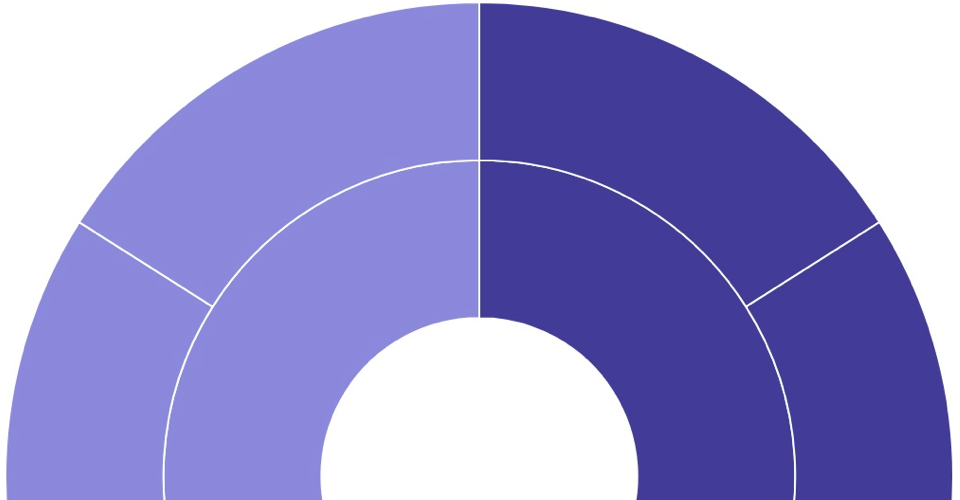
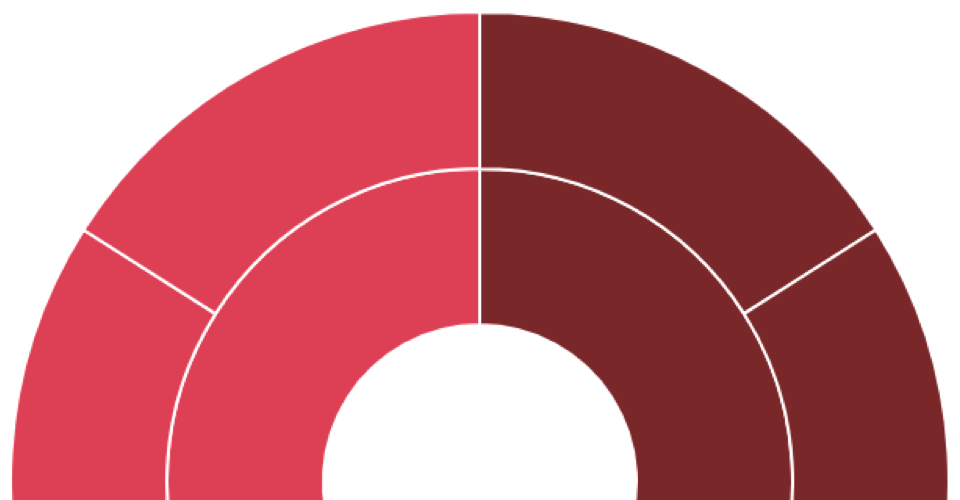
red sunbursts and typos

diff --git a/d3/sunburst-2.html b/d3/sunburst-2.html
@@ -1,7 +1,7 @@
 <!DOCTYPE html>
 <head>
     <title>Sunburst Tutorial (d3 v4), Part 2</title>
-    <script src='../plugins/d3/d3.v4.min.js'></script>
+    <script src='../plugins/d3/d3.v4.js'></script>
     <!-- Want to run locally? Update src: 'https://d3js.org/d3.v4.min.js' -->
 </head>
 <body>
@@ -12,7 +12,7 @@
     var vWidth = 300;
     var vHeight = 300;
     var vRadius = Math.min(vWidth, vHeight) / 2;
-    var vColor = d3.scaleOrdinal(d3.schemeCategory20b);
+    var vColor = d3.scaleOrdinal(d3.schemeCategory20b.slice(11));
 
     // Prepare our physical space
     var g = d3.select('svg')
@@ -52,6 +52,8 @@
             .attr('d', vArc)
             .style('stroke', '#fff')
             .style('fill', function (d) {
-                return vColor((d.children ? d : d.parent).data.id); });
+                return vColor(
+                    (d.children ? d : d.parent).data.id);
+            });
     }
 </script>

diff --git a/d3/sunburst-3.html b/d3/sunburst-3.html
@@ -12,7 +12,7 @@
     var vWidth = 300;
     var vHeight = 300;
     var vRadius = Math.min(vWidth, vHeight) / 2;
-    var vColor = d3.scaleOrdinal(d3.schemeCategory20b);
+    var vColor = d3.scaleOrdinal(d3.schemeCategory20b.slice(11));
 
     // Prepare our physical space
     var g = d3.select('svg')

diff --git a/_posts/2017-07-12-use-json-and-functions-tutorial-2.md b/_posts/2017-07-12-use-json-and-functions-tutorial-2.md
@@ -46,11 +46,11 @@ I hope this tutorial helps you deepen your d3 visualization skills. If it does t
 
 
 ## Summary
-In this tutorial, we move from _No Frills_ to _Pulling data from a JSON file_. Both files look the same on the outside; but the new version has some neat upgrades on the inside. (Tips: Keep the raw code open in a seperate tab. Do a code compare between tutorial 1 and 2--see icons below.)
+In this tutorial, we move from _No Frills_ to _Pulling data from a JSON file_. Both files look the same on the outside; but the new version has some neat upgrades on the inside. (Tips: Keep the raw code open in a separate tab. Do a code compare between tutorial 1 and 2--see icons below.)
 
 <table class="center">
 <tr>
-    <td class="center">Old: <b>Sunburst in 60 Lines</b>&nbsp;&nbsp;
+    <td class="center">Old: <b>Sunburst in 54 Lines</b>&nbsp;&nbsp;
             <a href="{{ page.old_permalink }}" target="_blank" title="open previous tutorial">
                 <i class="fa fa-graduation-cap" aria-hidden="true"></i></a>
             <a href="{{ page.old_code_url }}" target="_blank" title="open code">
@@ -94,6 +94,8 @@ function drawSunburst(data) {
 
 See below for a discussion of these changes.
 
+* _COLOR NOTE_: I did make one other little change to this viz. I got a little bored of looking at blue sunbursts. So I added a `slice()` method to our `vColor` definition (which truncates the original array, "start at the 11th position").  Now `var vColor = d3.scaleOrdinal(d3.schemeCategory20b.slice(11));`.  And now our starburst is a nice series of reds.
+
 ---
 
 ## Get the Data
@@ -112,7 +114,7 @@ d3.json('data-simple.json', function(error, vData) {
 1. `data-simple.json` (since we don't have any folder references, it assumes that this file is in the same directory as the current file)
 2. A special _anonymous_ function that returns hopefully returns our data as a variable (vData) or an error. All of our code that processes and presents the data could fit within this anonymous function block. However, we've placed this code in a separate function.
 
-_NOTE_ The `d3.json` above runs _asynchronously_. That means that d3 works on pulling the requested data, but it simultaneously allows the next block of code (whatever is right after the `d3.json` call) to begin executing immediately. So wrapping our data-driven code in a function ensures that it doesn't execute until we have either data or an error. (If I had a nickel for each time I've written a data-get without thinking about asynchronisity, I'd have at least a dollar. And copious amounts of confusion.)
+_NOTE_ The `d3.json` above runs _asynchronously_. That means that d3 works on pulling the requested data, but it simultaneously allows the next block of code (whatever is right after the `d3.json` call) to begin executing immediately. So wrapping our data-driven code in a function ensures that it doesn't execute until we have either data or an error. (If I had a nickel for each time I've written a data-get without thinking about asynchronicity, I'd have at least a dollar. And copious amounts of confusion.)
 
 
 ---

diff --git a/_posts/2017-07-08-sunburst-in-54-lines-tutorial-1.md b/_posts/2017-07-08-sunburst-in-54-lines-tutorial-1.md
@@ -53,11 +53,11 @@ Don't know much about the french I took...<br>
 
 
 ## Summary
-In this tutorial, we'll build a super basic sunburst--*No Frills*, if you will. (Tips: Consider keeping the raw code open--link icon below--in a seperate tab.)
+In this tutorial, we'll build a super basic sunburst--*No Frills*, if you will. (Tips: Consider keeping the raw code open--link icon below--in a separate tab.)
 
 <table class="center">
 <tr>
-    <td class="center">New: <b>Sunburst in 60 Lines</b>&nbsp;&nbsp;
+    <td class="center">New: <b>Sunburst in 54 Lines</b>&nbsp;&nbsp;
             <a href="{{ page.code_url }}" target="_blank" title="open code">
                 <i class="fa fa-code" aria-hidden="true"></i></a>
             <a href="{{ page.html_url }}" target="_blank" title="open viz">
@@ -107,7 +107,8 @@ We'll set 4 variables that we can use throughout our code. I begin each variable
 
 2. `var vRadius = Math.min(vWidth, vHeight) / 2` determines which is smaller (`Math.min`), the width or vHeight. Then it divides that value by 2 (since the radius is 1/2 of the circle's diameter). Then we store that value as our radius. This optimizes the size of our viz within the `<svg>` element (since we don't want to leak past the edges, but we also don't want a bunch of wasted white space). Since width and height are both 300, the vRadius variable will equal 150.
 
-3. `d3.scaleOrdinal`: d3 scales help us map our data to something in our visual. Outside of d3, _ordinal scales_ indicate the direction of the underlying data and provide nominal information (e.g., low, medium, high). In the same way, _scaleOrdinal_ in d3 allows us to relate a part of our data to something that has a series of named values (like an array of colors).
+3. `d3.scaleOrdinal`: d3 scales help us map our data to something in our visual. (Read the [docs](https://github.com/d3/d3-scale/blob/master/README.md#scaleOrdinal) for more.)
+    * Outside of d3, _ordinal scales_ indicate the direction of the underlying data and provide nominal information (e.g., low, medium, high). In the same way, _scaleOrdinal_ in d3 allows us to relate a part of our data to something that has a series of named values (like an array of colors).
     * `schemeCategory20b` is a d3 name that returns a built in array of colors. d3 has [several similar options](https://github.com/d3/d3-scale/blob/master/README.md#schemeCategory10) that are specifically designed to work with `d3.scaleOrdinal()`.  The result of this line is that we'll have a variable ('vColor') that will return a rainbow of options for our sunburst.
 
 ---

diff --git a/_posts/2017-07-15-add-sunburst-labels-tutorial-3.md b/_posts/2017-07-15-add-sunburst-labels-tutorial-3.md
@@ -203,7 +203,7 @@ This is the end of changes to our `drawSunburst()` function.
 ---
 
 ## computeTextRotation Function
-The computeTextRotation function calculates the correct amount of rotatation for each label based on its location in the sunburst. It also avoids upside down labels. It takes a single argument, "d", which represents a single d3 node (this function is called one time for each `text` element).
+The computeTextRotation function calculates the correct amount of rotation for each label based on its location in the sunburst. It also avoids upside down labels. It takes a single argument, "d", which represents a single d3 node (this function is called one time for each `text` element).
 
 ``` javascript
 function computeTextRotation(d) {
